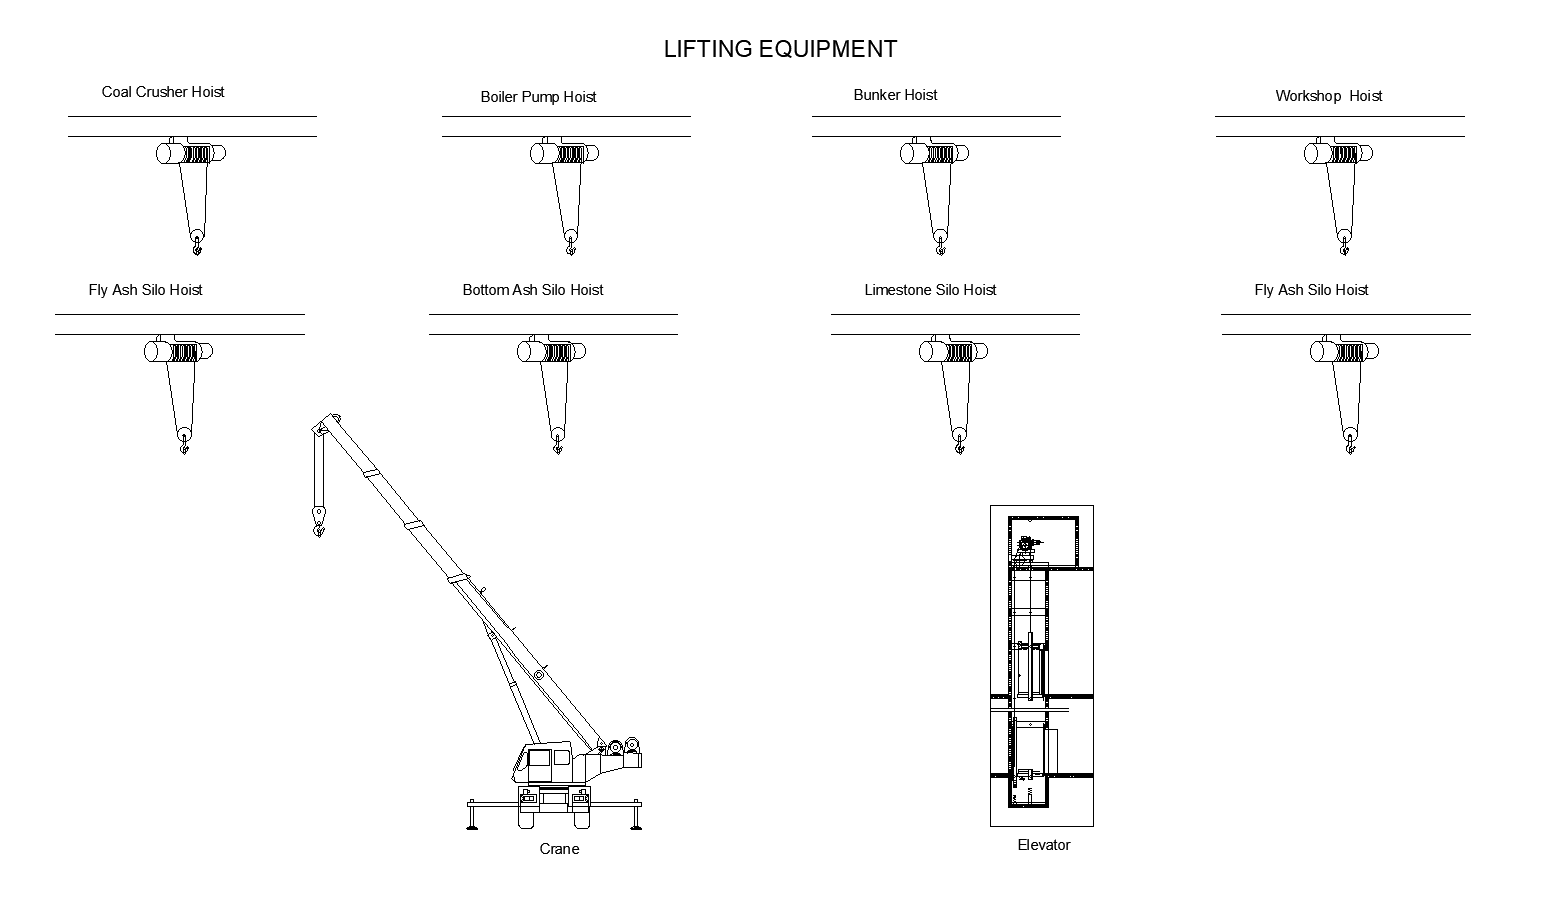
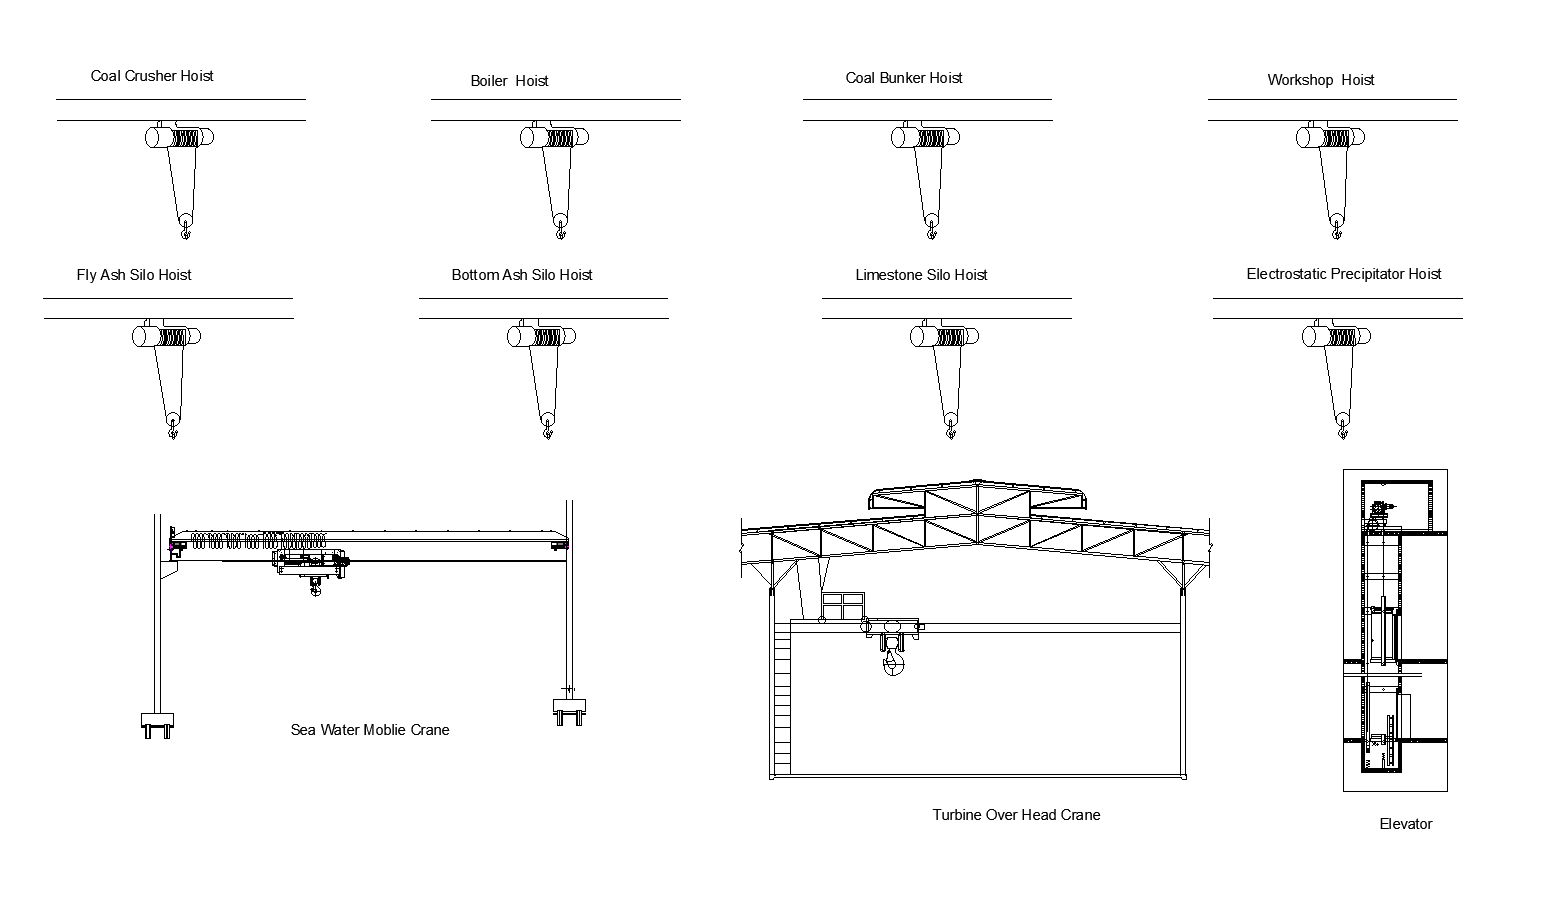
change lifting equipment diagram image

diff --git a/javascript/config.js b/javascript/config.js
@@ -343,15 +343,16 @@ const positionMaps = {
     "Disconnect Switch Brooke's Point": { x: 270, y: 490 },
   },
   le: {
-    "Coal Crusher Hoist 1": { x: 150, y: 150 },
-    "Boiler Pump Hoist": { x: 415, y: 150 },
-    "Coal Bunker Hoist": { x: 685, y: 150 },
-    "Workshop Hoist": { x: 975, y: 150 },
-    "Fly Ash Silo Hoist": { x: 140, y: 300 },
-    "Bottom Ash Silo Hoist": { x: 405, y: 300 },
-    "Limestone Silo Hoist": { x: 695, y: 300 },
-    "Electrostatic Precipitator Hoist": { x: 975, y: 300 },
-    "Crane": { x: 380, y: 615 },
-    "Elevator": { x: 730, y: 615 },
+    "Coal Crusher Hoist 1": { x: 150, y: 100 },
+    "Boiler Pump Hoist": { x: 415, y: 100 },
+    "Coal Bunker Hoist": { x: 685, y: 100 },
+    "Workshop Hoist": { x: 975, y: 100 },
+    "Fly Ash Silo Hoist": { x: 140, y: 250 },
+    "Bottom Ash Silo Hoist": { x: 405, y: 250 },
+    "Limestone Silo Hoist": { x: 695, y: 250 },
+    "Electrostatic Precipitator Hoist": { x: 975, y: 250 },
+    "Seawater Intake Mobile Crane": { x: 240, y: 480 },
+    "Turbine Overhead Crane": { x: 700, y: 480 },
+    "Elevator": { x: 985, y: 600 },
   },
 };
